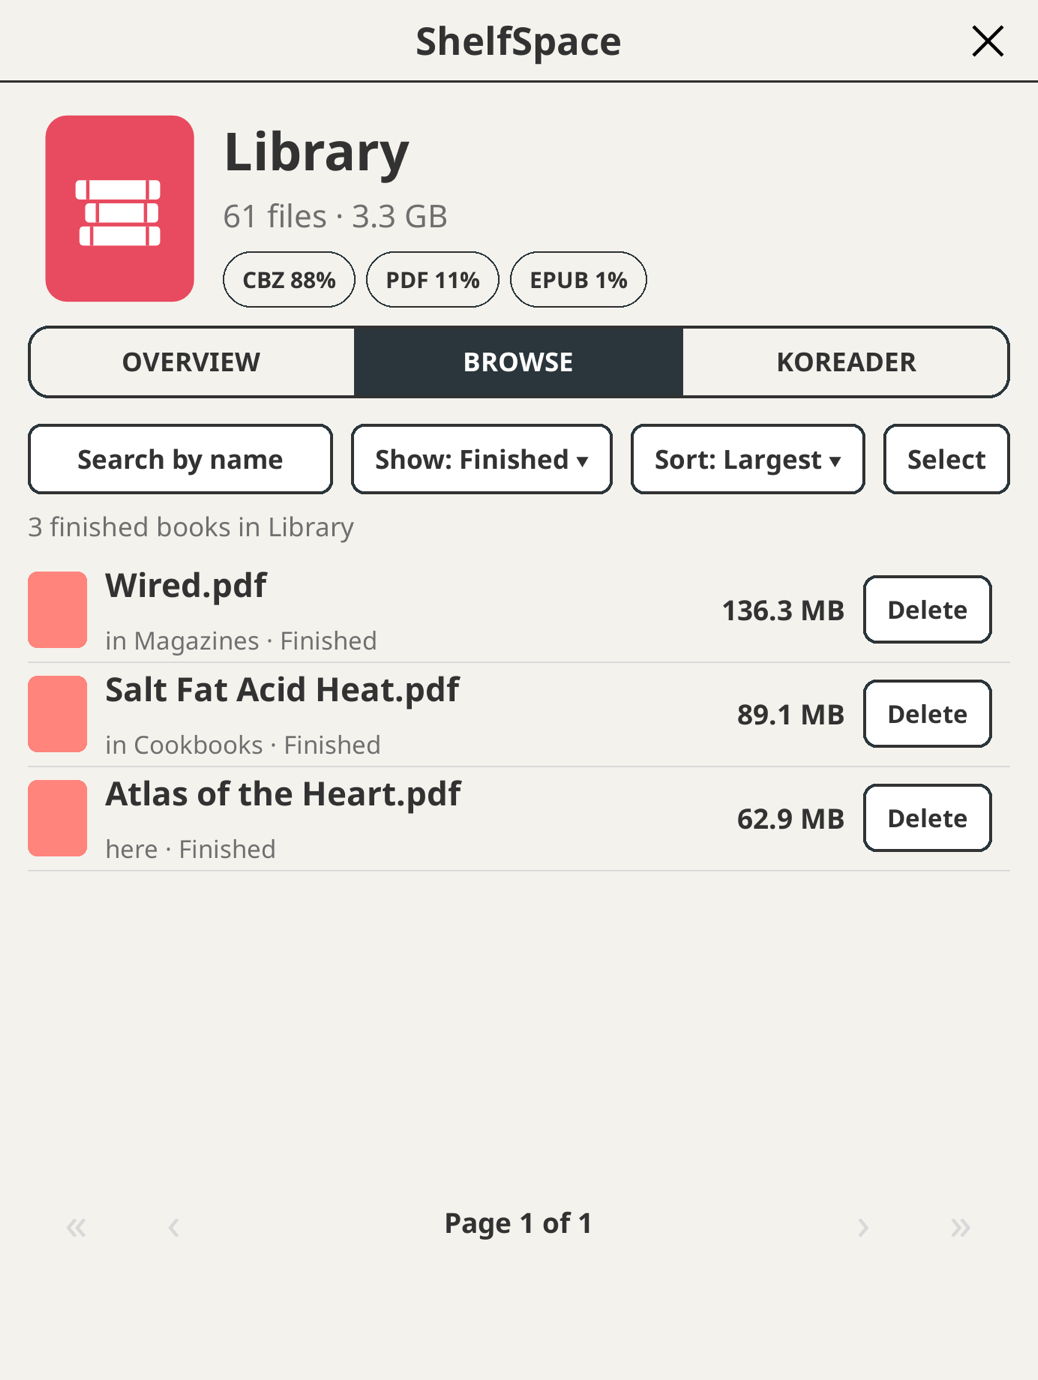
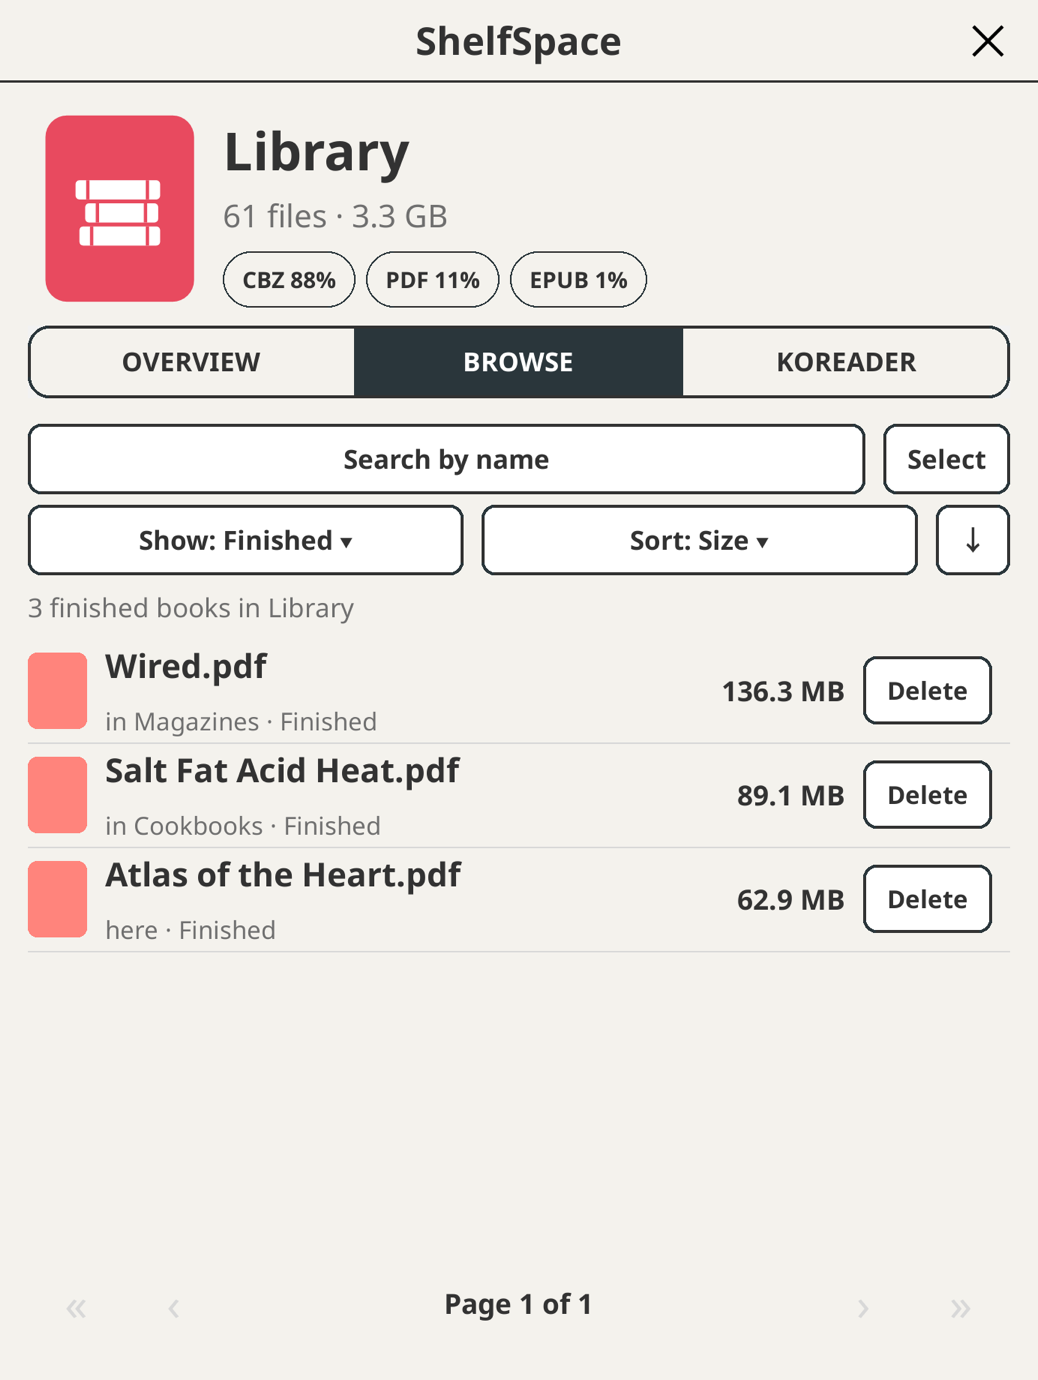
refactor: sort by category with one direction arrow, and split the controls into two rows

diff --git a/README.md b/README.md
@@ -46,7 +46,7 @@ Open **Tools › ShelfSpace**. Three tabs:
   are (a bar and "18% read", "Finished" or "Not started"), from KOReader's own
   reading progress. The file
   type chips at the top are quick filters: tap one to show only that type
-  (tap it again to clear). Sort by size, name, date or when you last opened it, or search by name across
+  (tap it again to clear). Sort by size, name, date or when you last opened it (the arrow beside the sort flips the direction), or search by name across
   the folder you are in and everything under it. **Show** narrows the list to the
   books KOReader has marked as finished, or to the ones you never opened,
   wherever they are in the library, so what you have already read (or never
